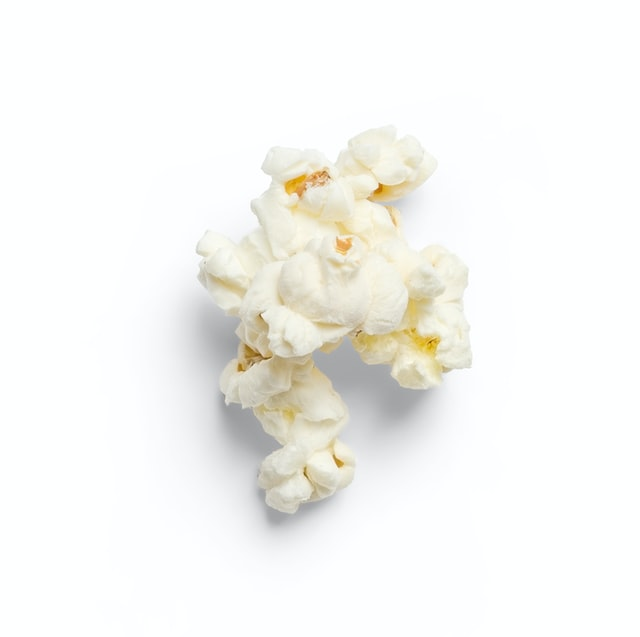
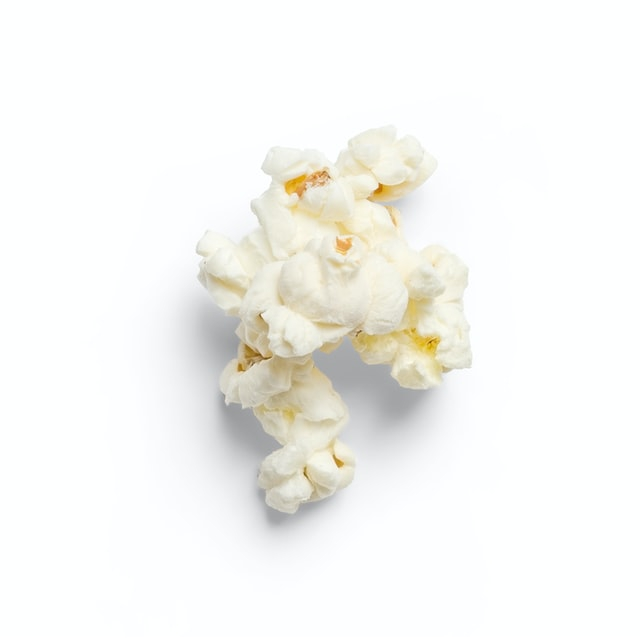
Update
• Empty cart in database
• Added comments
• Supporting CORS with VSCode live server
• Resized 2 images

diff --git a/modules/cart.js b/modules/cart.js
@@ -1,11 +1,13 @@
 const express = require('express');
 const router = express.Router();
 
+// Hämta alla produkter i varukorgen
 router.get('/', (request, response) => {
   const data = request.app.database.get('cart').value();
   response.send(data);
 });
 
+// Lägga till en produkt i varukorgen, kollar om ID:et är giltigt först
 router.post('/', (request, response) => {
   const id = Number(request.query.id);
   if (!isNaN(id)) {
@@ -17,6 +19,7 @@ router.post('/', (request, response) => {
   }
 });
 
+// För att ändra antalet av en produkt i varukorgen, kollar om ID:et är giltigt först
 router.put('/:change', (request, response) => {
   const change = request.params.change;
   const id = Number(request.query.id);
@@ -29,6 +32,7 @@ router.put('/:change', (request, response) => {
   }
 });
 
+// För att ta bort en produkt från varukorgen, kollar om ID:et är giltigt först
 router.delete('/', (request, response) => {
   const id = Number(request.query.id);
   if (!isNaN(id)) {
@@ -40,6 +44,11 @@ router.delete('/', (request, response) => {
   }
 });
 
+/*
+Funktion för att lägga till produkt i varukorg från databas
+Kollar först om produkten existerar i databasen
+Kontrollerar sedan att användaren inte redan har produkten i varukorgen
+*/
 function addToCart(database, id) {
   const product = database.get('products').find({id: id}).value();
   if (product !== undefined) {
@@ -55,6 +64,13 @@ function addToCart(database, id) {
   }
 }
 
+/*
+Funktion för att uppdatera antalet av en produkt i varukorgen
+Kontrollerar först om produkten ligger i varukorgen
+Sedan om parametern är för att öka eller minska antalet
+Modifierar count om antalet är mellan 1-99
+Går alltså inte att ha färre än 1 produkt eller fler än 99 i varukorgen
+*/
 function updateCart(database, id, change) {
   const product = database.get('cart').find({id: id}).value();
   if (product !== undefined) {
@@ -78,6 +94,11 @@ function updateCart(database, id, change) {
   }
 }
 
+/*
+Funktion för att ta bort från varukorgen
+Kontrollerar först om produkten ligger i varukorgen
+Tar därefter bort produkten
+*/
 function removeFromCart(database, id) {
   const item = database.get('cart').find({id: id}).value();
   if (item !== undefined) {

diff --git a/server.js b/server.js
@@ -8,10 +8,17 @@ const port = process.env.PORT || 8080;
 const cart = require('./modules/cart');
 const products = require('./modules/products');
 
+// För att fetch ska fungera via VSCode live-server
+app.use((request, response, next) => {
+  response.setHeader('Access-Control-Allow-Origin', 'http://127.0.0.1:5500');
+  next();
+});
+
+// För bilder på servern
 app.use(express.static('server'));
 
+// Moduler är uppdelade på förfrågningar som rör produkter/varukorgen
 app.database = database;
-
 app.use('/api/cart', cart);
 app.use('/api/products', products);
 

diff --git a/modules/products.js b/modules/products.js
@@ -1,6 +1,10 @@
 const express = require('express');
 const router = express.Router();
 
+/*
+Hämtar alla produkter i databasen
+Om sortby=price är inkluderat så kommer den hämta alla efter pris
+*/
 router.get('/', (request, response) => {
   const sortBy = request.query.sortby;
   const database = request.app.database;
